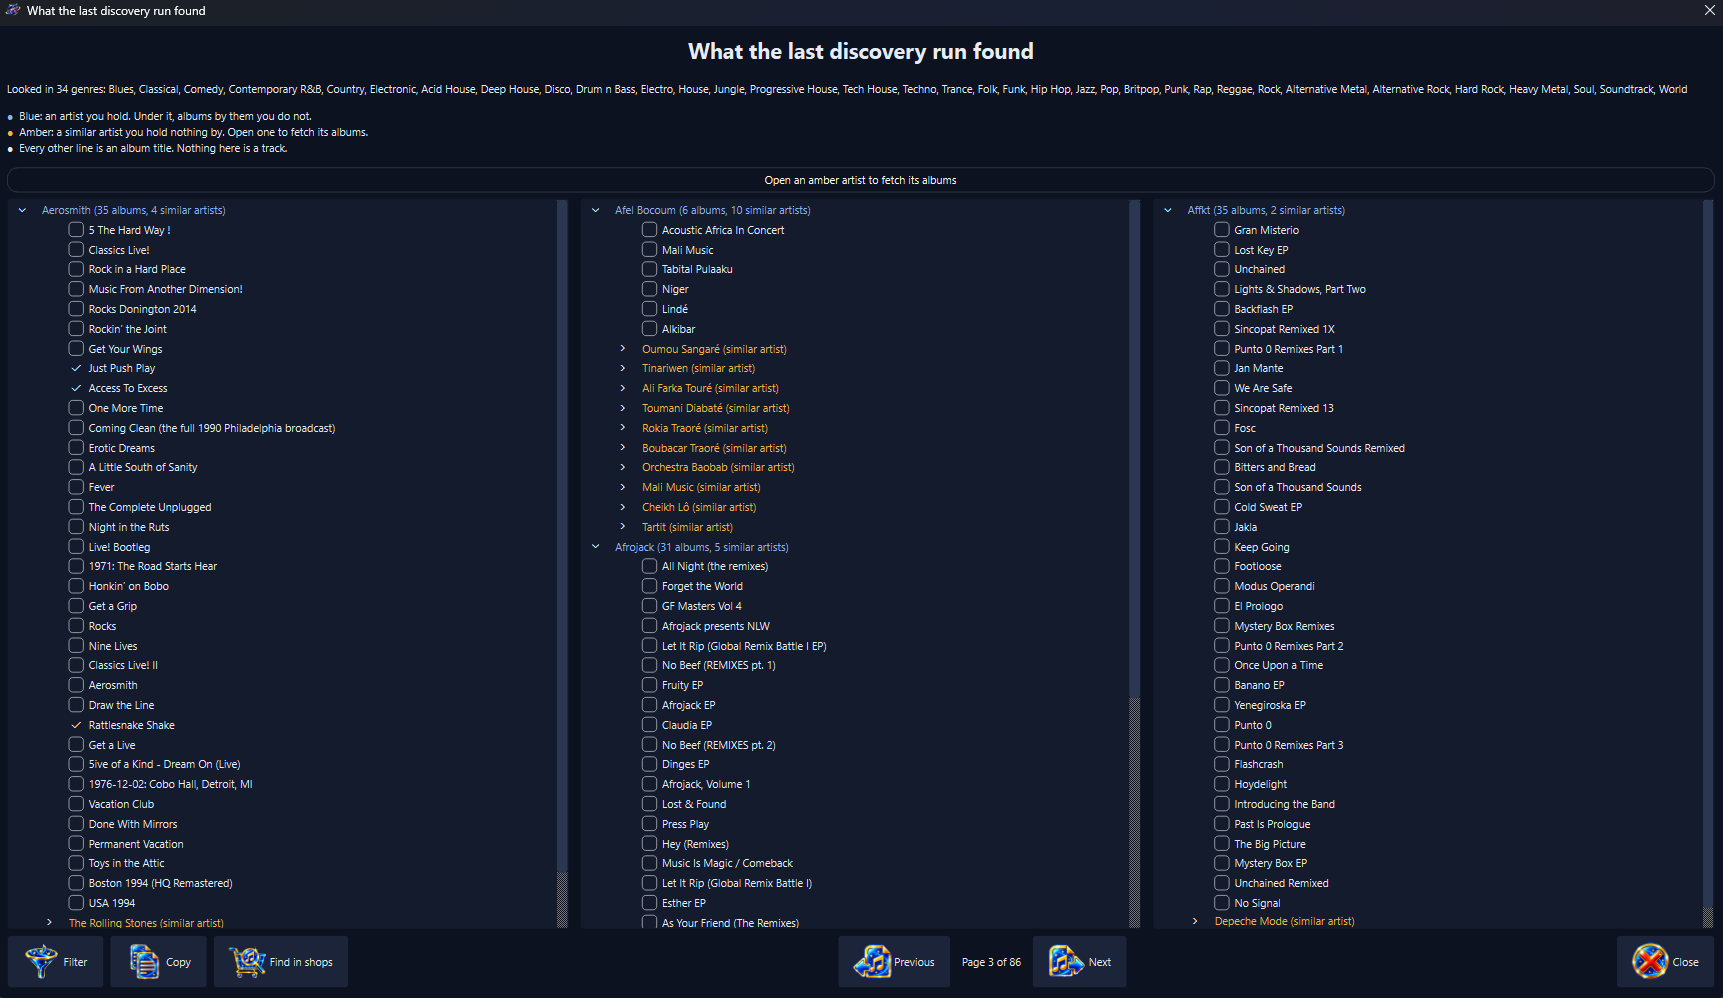
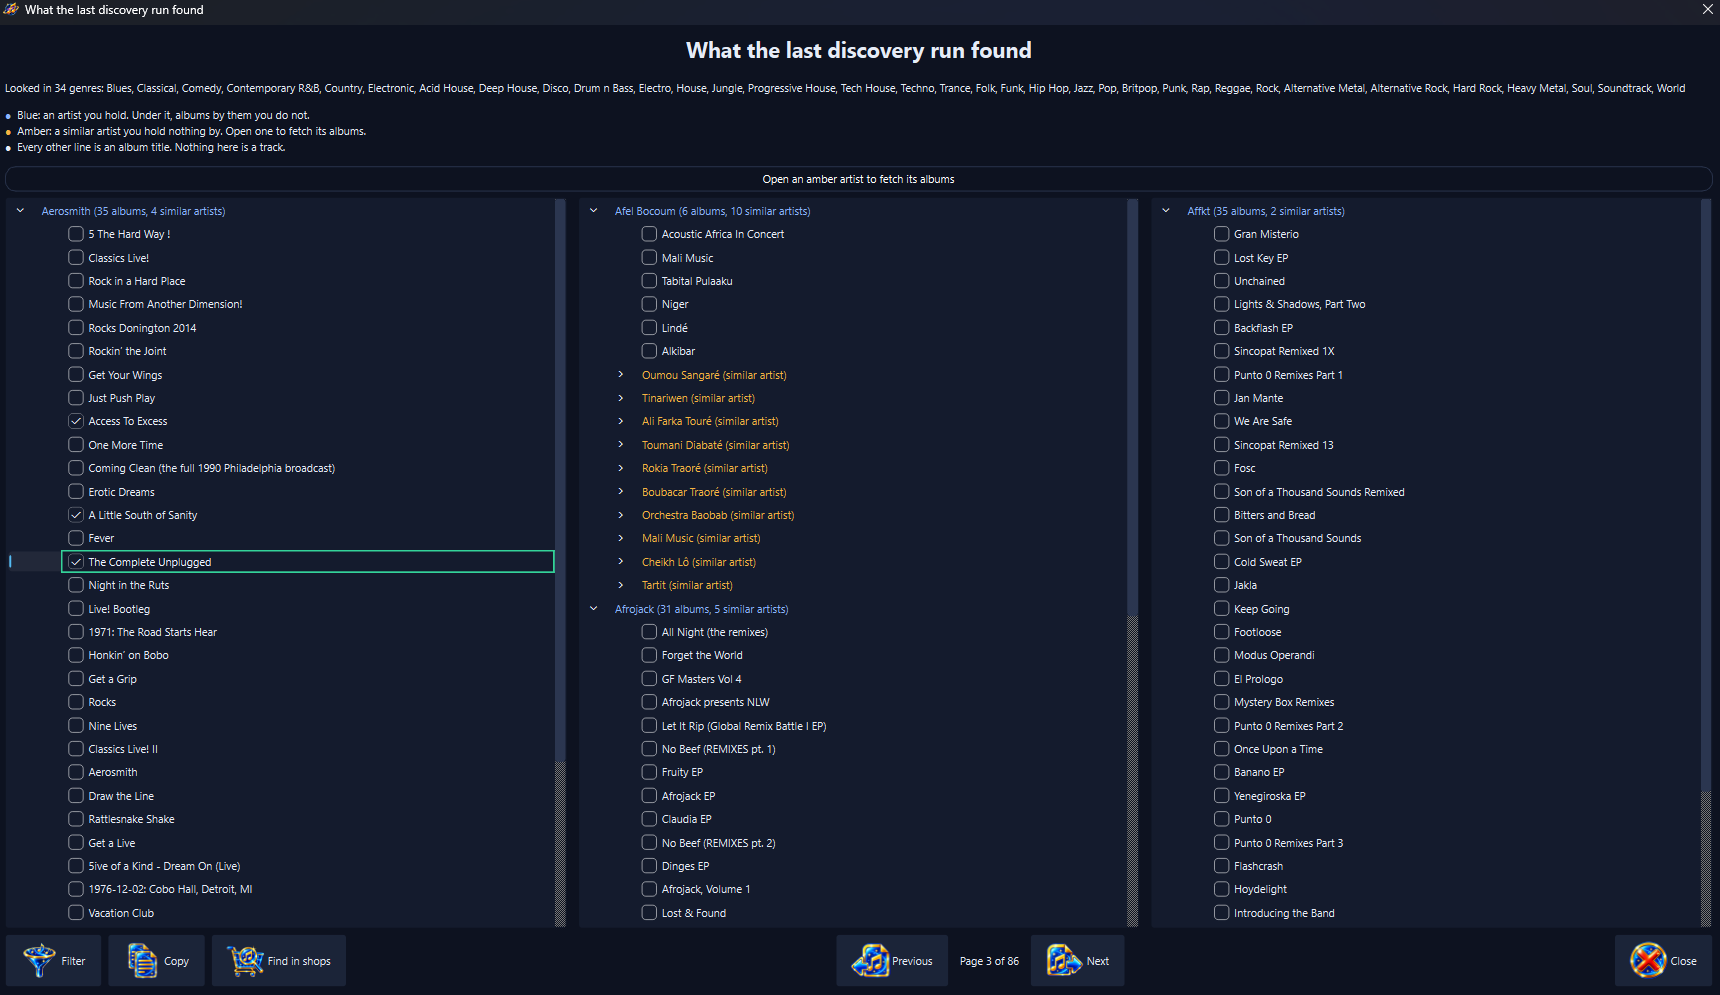
Replace the discovery results screenshot
The new shot shows three columns, ticks drawn inside their boxes and the keyboard ring on the current row; the features page states its real size and describes what it shows.

diff --git a/docs/features.html b/docs/features.html
@@ -371,7 +371,7 @@
   <p class="shot-caption">Tick what to look in. Find closes this window; the search then reports from the toolbar.</p>
 
   <div class="shot" style="margin-top:2.5rem;">
-    <img src="screenshots/discovered.png" width="1723" height="998" alt="The What the last discovery run found window, opened across a wide screen. A line at the top names the 34 genres the search looked in. Under it a key names the three kinds of row: an artist you hold, drawn in blue, with albums by them you do not underneath; a similar artist you hold nothing by, drawn in amber, which fetches its albums when opened; every other line, which is an album title. The key states outright that nothing in the list is a track. The answer is dealt into three columns of artists, Aerosmith, Afel Bocoum, Afrojack and Affkt among them, each naming how many albums and how many similar artists sit under it, with a tick box against every album and three of Aerosmith's ticked. One row runs under the columns: Filter, Copy and Find in shops at the left, then Previous and Next with the words Page 3 of 86 between them, then Close at the right.">
+    <img src="screenshots/discovered.png" width="1720" height="995" alt="The What the last discovery run found window, opened across a wide screen. A line at the top names the 34 genres the search looked in. Under it a key names the three kinds of row: an artist you hold, drawn in blue, with albums by them you do not underneath; a similar artist you hold nothing by, drawn in amber, which fetches its albums when opened; every other line, which is an album title. The key states outright that nothing in the list is a track. The answer is dealt into three columns of artists: Aerosmith with 35 albums and 4 similar artists, Afel Bocoum and Afrojack, then Affkt with 35 albums and 2 similar artists. Every album has a tick box. Three of Aerosmith's are ticked, each tick drawn inside its box. The last of them, The Complete Unplugged, is the row the keyboard is on, ringed in green. One row runs under the columns: Filter, Copy and Find in shops at the left, then Previous and Next with the words Page 3 of 86 between them, then Close at the right.">
   </div>
   <p class="shot-caption">What the search found, turned a page at a time. Blue is an artist you hold; amber is one you do not. Every line says which it is in words.</p>
 
